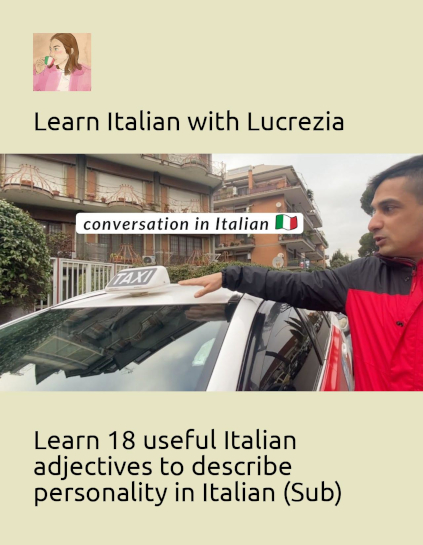
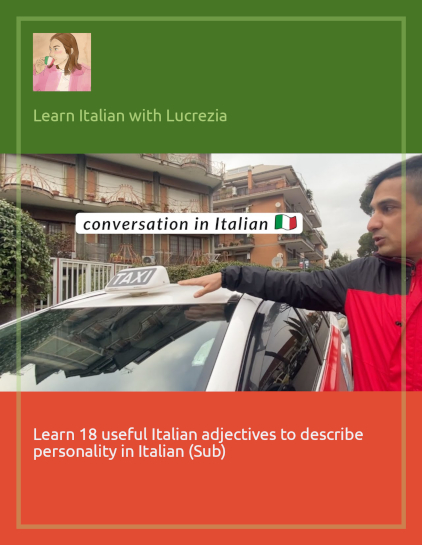
New cover system shown in README.md

diff --git a/cover.py b/cover.py
@@ -91,7 +91,7 @@ def main():
     video_thumbnail_path = "tmp/thumbnailmaxres.jpg"
     author = "Learn Italian with Lucrezia"
     title = "Learn 18 useful Italian adjectives to describe personality in Italian (Sub)"
-    create_cover(url, video_thumbnail_path, author, title, "combo5.png")
+    create_cover(url, video_thumbnail_path, author, title, "combo2.png", "epub")
 
 
 if __name__ == "__main__":
